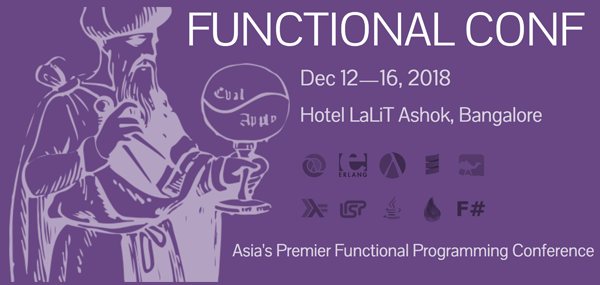
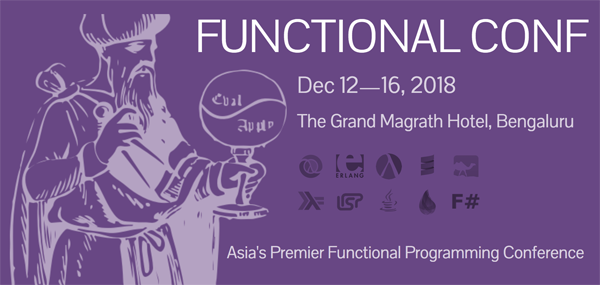
changed venue fixed profile images

diff --git a/index.html b/index.html
@@ -60,7 +60,7 @@ page-index
             <div class="subtitle">Asia's Premier Functional Programming Conference</div>
             <a class="schedule" href="schedule.html">Dec 12&mdash;16, 2018</a>
             <a class="venue" href="venue.html">
-                Hotel LaliT Ashok<br/>
+                The Grand Magrath Hotel<br/>
                 Bengaluru
             </a>
             <a class="button button--register" href="https://confengine.com/functional-conf-2018/register/selection" target="_blank">Register</a>
@@ -157,7 +157,7 @@ page-index
             <ul class="small-block-grid-2 large-block-grid-4 speaker-list">
                 <li>
                     <a href="https://confengine.com/user/alos-cochard" target="_blank">
-                        <img src="https://media.licdn.com/mpr/mpr/shrinknp_400_400/AAEAAQAAAAAAAAkTAAAAJDQ1YWYzNDA2LTQwZmItNDdlYS05NDEyLTYwMGE4OGIwZmYwOQ.jpg" alt="Aloïs Cochard" title="Aloïs Cochard"/>
+                        <img src="https://res.cloudinary.com/dnnqsdghx/image/upload/w_201,h_201,f_auto,q_auto:best,c_thumb,g_face,z_0.8/v1493084432/ProfilePics/t1wvixwcrsqqjmbg65am.jpg" alt="Aloïs Cochard" title="Aloïs Cochard"/>
                         <h3 class="name">Aloïs Cochard</h3>
                     </a>
                 </li>
@@ -193,7 +193,7 @@ page-index
                 </li>
                 <li>
                     <a href="https://www.linkedin.com/in/lauracastro/" target="_blank">
-                        <img src="https://media.licdn.com/dms/image/C4E03AQF5inG09JeNIg/profile-displayphoto-shrink_800_800/0?e=1529665200&v=beta&t=lyxUB-BE7cJxDehscmP9o0tyzhve-4MYJjDSDI_oRRI" alt="Laura M. Castro" title="Laura M. Castro"/>
+                        <img src="https://media.licdn.com/dms/image/C4E03AQF5inG09JeNIg/profile-displayphoto-shrink_800_800/0?e=1540425600&v=beta&t=grTSHDtUoFVDyLf6uIaoMHRClxQz-R_0loYfbec3Y64" alt="Laura M. Castro" title="Laura M. Castro"/>
                         <h3 class="name">Laura M. Castro</h3>
                     </a>
                 </li>
@@ -205,7 +205,7 @@ page-index
                 </li>
                 <li>
                     <a href="https://www.linkedin.com/in/miriampena/" target="_blank">
-                        <img src="https://media.licdn.com/dms/image/C4E03AQG0Jx0aRWSHrA/profile-displayphoto-shrink_800_800/0?e=1529665200&v=beta&t=ybDAs4LMCLY3Dt6sNpuu_NFwAvIhQuRd4AA--Rmzk9k" alt="Miriam Pena" title="Miriam Pena"/>
+                        <img src="https://media.licdn.com/dms/image/C4E03AQG0Jx0aRWSHrA/profile-displayphoto-shrink_800_800/0?e=1540425600&v=beta&t=aoXIzXiPqYOs65Zm--PZiy0Z6ZV3CEqam5QTKTJlNMY" alt="Miriam Pena" title="Miriam Pena"/>
                         <h3 class="name">Miriam Pena</h3>
                     </a>
                 </li>
@@ -337,13 +337,13 @@ page-index
                 </li>
                 <li>
                     <a href="https://www.linkedin.com/in/lauracastro/" target="_blank">
-                        <img src="https://media.licdn.com/dms/image/C4E03AQF5inG09JeNIg/profile-displayphoto-shrink_800_800/0?e=1529665200&v=beta&t=lyxUB-BE7cJxDehscmP9o0tyzhve-4MYJjDSDI_oRRI" alt="Laura M. Castro" title="Laura M. Castro"/>
+                        <img src="https://media.licdn.com/dms/image/C4E03AQF5inG09JeNIg/profile-displayphoto-shrink_800_800/0?e=1540425600&v=beta&t=grTSHDtUoFVDyLf6uIaoMHRClxQz-R_0loYfbec3Y64" alt="Laura M. Castro" title="Laura M. Castro"/>
                         <h3 class="name">Laura M. Castro</h3>
                     </a>
                 </li>
                 <li>
                     <a href="https://www.linkedin.com/in/miriampena/" target="_blank">
-                        <img src="https://media.licdn.com/dms/image/C4E03AQG0Jx0aRWSHrA/profile-displayphoto-shrink_800_800/0?e=1529665200&v=beta&t=ybDAs4LMCLY3Dt6sNpuu_NFwAvIhQuRd4AA--Rmzk9k" alt="Miriam Pena" title="Miriam Pena"/>
+                        <img src="https://media.licdn.com/dms/image/C4E03AQG0Jx0aRWSHrA/profile-displayphoto-shrink_800_800/0?e=1540425600&v=beta&t=aoXIzXiPqYOs65Zm--PZiy0Z6ZV3CEqam5QTKTJlNMY" alt="Miriam Pena" title="Miriam Pena"/>
                         <h3 class="name">Miriam Pena</h3>
                     </a>
                 </li>
@@ -361,7 +361,7 @@ page-index
                 </li>
                 <li>
                     <a href="https://www.linkedin.com/in/rjaju/" target="_blank">
-                        <img src="https://media.licdn.com/dms/image/C4E03AQGwngLsPRtSFQ/profile-displayphoto-shrink_800_800/0?e=1529665200&v=beta&t=7FvBEBod54yRyaONhggEGRa24BM83reT2HbaZXTS4mM" alt="Ravindra Jaju" title="Ravindra Jaju"/>
+                        <img src="https://media.licdn.com/dms/image/C4E03AQGwngLsPRtSFQ/profile-displayphoto-shrink_800_800/0?e=1540425600&v=beta&t=0aH11gli04bi5D7hGf3EUMq38Pz_Fkynn54SX1EBSxM" alt="Ravindra Jaju" title="Ravindra Jaju"/>
                         <h3 class="name">Ravindra Jaju</h3>
                     </a>
                 </li>

diff --git a/templates/index.html b/templates/index.html
@@ -21,7 +21,7 @@ page-index
             <div class="subtitle">Asia's Premier Functional Programming Conference</div>
             <a class="schedule" href="schedule.html">Dec 12&mdash;16, 2018</a>
             <a class="venue" href="venue.html">
-                Hotel LaliT Ashok<br/>
+                The Grand Magrath Hotel<br/>
                 Bengaluru
             </a>
             <a class="button button--register" href="https://confengine.com/functional-conf-2018/register/selection" target="_blank">Register</a>
@@ -117,7 +117,7 @@ page-index
             <ul class="small-block-grid-2 large-block-grid-4 speaker-list">
                 <li>
                     <a href="https://confengine.com/user/alos-cochard" target="_blank">
-                        <img src="https://media.licdn.com/mpr/mpr/shrinknp_400_400/AAEAAQAAAAAAAAkTAAAAJDQ1YWYzNDA2LTQwZmItNDdlYS05NDEyLTYwMGE4OGIwZmYwOQ.jpg" alt="Aloïs Cochard" title="Aloïs Cochard"/>
+                        <img src="https://res.cloudinary.com/dnnqsdghx/image/upload/w_201,h_201,f_auto,q_auto:best,c_thumb,g_face,z_0.8/v1493084432/ProfilePics/t1wvixwcrsqqjmbg65am.jpg" alt="Aloïs Cochard" title="Aloïs Cochard"/>
                         <h3 class="name">Aloïs Cochard</h3>
                     </a>
                 </li>
@@ -153,7 +153,7 @@ page-index
                 </li>
                 <li>
                     <a href="https://www.linkedin.com/in/lauracastro/" target="_blank">
-                        <img src="https://media.licdn.com/dms/image/C4E03AQF5inG09JeNIg/profile-displayphoto-shrink_800_800/0?e=1529665200&v=beta&t=lyxUB-BE7cJxDehscmP9o0tyzhve-4MYJjDSDI_oRRI" alt="Laura M. Castro" title="Laura M. Castro"/>
+                        <img src="https://media.licdn.com/dms/image/C4E03AQF5inG09JeNIg/profile-displayphoto-shrink_800_800/0?e=1540425600&v=beta&t=grTSHDtUoFVDyLf6uIaoMHRClxQz-R_0loYfbec3Y64" alt="Laura M. Castro" title="Laura M. Castro"/>
                         <h3 class="name">Laura M. Castro</h3>
                     </a>
                 </li>
@@ -165,7 +165,7 @@ page-index
                 </li>
                 <li>
                     <a href="https://www.linkedin.com/in/miriampena/" target="_blank">
-                        <img src="https://media.licdn.com/dms/image/C4E03AQG0Jx0aRWSHrA/profile-displayphoto-shrink_800_800/0?e=1529665200&v=beta&t=ybDAs4LMCLY3Dt6sNpuu_NFwAvIhQuRd4AA--Rmzk9k" alt="Miriam Pena" title="Miriam Pena"/>
+                        <img src="https://media.licdn.com/dms/image/C4E03AQG0Jx0aRWSHrA/profile-displayphoto-shrink_800_800/0?e=1540425600&v=beta&t=aoXIzXiPqYOs65Zm--PZiy0Z6ZV3CEqam5QTKTJlNMY" alt="Miriam Pena" title="Miriam Pena"/>
                         <h3 class="name">Miriam Pena</h3>
                     </a>
                 </li>
@@ -297,13 +297,13 @@ page-index
                 </li>
                 <li>
                     <a href="https://www.linkedin.com/in/lauracastro/" target="_blank">
-                        <img src="https://media.licdn.com/dms/image/C4E03AQF5inG09JeNIg/profile-displayphoto-shrink_800_800/0?e=1529665200&v=beta&t=lyxUB-BE7cJxDehscmP9o0tyzhve-4MYJjDSDI_oRRI" alt="Laura M. Castro" title="Laura M. Castro"/>
+                        <img src="https://media.licdn.com/dms/image/C4E03AQF5inG09JeNIg/profile-displayphoto-shrink_800_800/0?e=1540425600&v=beta&t=grTSHDtUoFVDyLf6uIaoMHRClxQz-R_0loYfbec3Y64" alt="Laura M. Castro" title="Laura M. Castro"/>
                         <h3 class="name">Laura M. Castro</h3>
                     </a>
                 </li>
                 <li>
                     <a href="https://www.linkedin.com/in/miriampena/" target="_blank">
-                        <img src="https://media.licdn.com/dms/image/C4E03AQG0Jx0aRWSHrA/profile-displayphoto-shrink_800_800/0?e=1529665200&v=beta&t=ybDAs4LMCLY3Dt6sNpuu_NFwAvIhQuRd4AA--Rmzk9k" alt="Miriam Pena" title="Miriam Pena"/>
+                        <img src="https://media.licdn.com/dms/image/C4E03AQG0Jx0aRWSHrA/profile-displayphoto-shrink_800_800/0?e=1540425600&v=beta&t=aoXIzXiPqYOs65Zm--PZiy0Z6ZV3CEqam5QTKTJlNMY" alt="Miriam Pena" title="Miriam Pena"/>
                         <h3 class="name">Miriam Pena</h3>
                     </a>
                 </li>
@@ -321,7 +321,7 @@ page-index
                 </li>
                 <li>
                     <a href="https://www.linkedin.com/in/rjaju/" target="_blank">
-                        <img src="https://media.licdn.com/dms/image/C4E03AQGwngLsPRtSFQ/profile-displayphoto-shrink_800_800/0?e=1529665200&v=beta&t=7FvBEBod54yRyaONhggEGRa24BM83reT2HbaZXTS4mM" alt="Ravindra Jaju" title="Ravindra Jaju"/>
+                        <img src="https://media.licdn.com/dms/image/C4E03AQGwngLsPRtSFQ/profile-displayphoto-shrink_800_800/0?e=1540425600&v=beta&t=0aH11gli04bi5D7hGf3EUMq38Pz_Fkynn54SX1EBSxM" alt="Ravindra Jaju" title="Ravindra Jaju"/>
                         <h3 class="name">Ravindra Jaju</h3>
                     </a>
                 </li>

diff --git a/venue.html b/venue.html
@@ -1,7 +1,7 @@
-<script type="text/javascript" src="https://maps.google.com/maps/api/js?sensor=false"></script>
+<script type="text/javascript" src="https://maps.google.com/maps/api/js?key=AIzaSyC6ZDHqWxJFDXFVKqC1lnOn1MEK1s0YxEA"></script>
 <script type="text/javascript">
   function LoadGmaps() {
-    var myLatlng = new google.maps.LatLng(12.9919749,77.581773,15);
+    var myLatlng = new google.maps.LatLng(12.970594,77.608145,15);
     var myOptions = {
       zoom: 16,
       center: myLatlng,
@@ -19,10 +19,10 @@
     var marker = new google.maps.Marker({
       position: myLatlng,
       map: map,
-      title:"The Lalit Ashok Bangalore, Kumara Krupa High Grounds, Bengaluru 560001 India – +91-80-3052-7777"
+      title:"The Grand Magrath Hotel #30 Magrath Road Bangalore - 560025, India – +91-80-2555-1555"
     });
     var infowindow = new google.maps.InfoWindow({
-      content: "The Lalit Ashok Bangalore, <br />Kumara Krupa High Grounds <br />Bengaluru - 560001"
+      content: "The Grand Magrath Hotel <br/>#30 Magrath Road <br/>Bangalore - 560025, India <br/>+91-80-2555-1555"
     });
     google.maps.event.addListener(map, "tilesloaded", function() {
       infowindow.open(map, marker);
@@ -108,10 +108,10 @@ onload="javascript: LoadGmaps();"
             <div>
                 <h2>Official Host for Functional Conf 2018</h2>
 
-                <p>Exuding an old world charm yet contemporary vibe, Bangalore is ever-welcoming and cosmopolitan in the true sense. A city that offers all that is modern yet is a bastion of tradition; Bangalore’s all-round-the-year pleasant climate and hospitable warmth make it one of the most popular cities to visit.</p>
-                <p><a target="_blank" href="https://www.thelalit.com/the-lalit-bangalore/">Hotel Lalit Ashok</a>, a Luxury 5 Star Hotel, puts you within reach of some of the best restaurants and attractions Bangalore has to offer.</p>
+                <p>Exuding an old world charm yet contemporary vibe, Bangalore is ever-welcoming and cosmopolitan in the true sense. A city that offers all that is modern yet is a bastion of tradition; Bangalore's all-round-the-year pleasant climate and hospitable warmth make it one of the most popular cities to visit.</p>
+                <p><a target="_blank" href="http://thegrandmagrath.com/">The Grand Magrath Hotel</a>, built to match the colonial style that Bangalore is famous for. Located in the heart of the city, The Grand Magrath is at an easy walking distance from Brigade and MG Road, UB City and a number of malls, shopping areas and restaurants.</p>
 
-                <p><strong>The Lalit Ashok Bangalore</strong> <br>Kumara Krupa High Grounds, Bengaluru - 560 001, India <br>Tel : +91-80-3052-7777 <br><a href="https://www.thelalit.com/the-lalit-bangalore/" target="_blank">www.thelalit.com</a></p>
+                <p><strong>The Grand Magrath Hotel</strong> <br>#30 Magrath Road Bangalore - 560025, India <br>Tel : +91-80-2555-1555 <br><a href="http://thegrandmagrath.com/" target="_blank">thegrandmagrath.com</a></p>
 
                 <a href="https://goo.gl/maps/UXWppfPdRit" target="_blank" id="venue-map" class="venue-map"></a>
             </div>
@@ -124,12 +124,12 @@ onload="javascript: LoadGmaps();"
 
                 <p>While filling your visa application online, please fill only mandatory fields. Skip optional fields. Also use the following person's details as the contact person:</p>
 
-                <p><strong>Mr. Adhiyamaan Ori</strong>,
-                    <br><em>Assistant Sales Manager</em>,
-                    <br><strong>The Lalit Ashok Bangalore</strong>
-                    <br>Kumara Krupa High Grounds, Bengaluru - 560 001, India
-                    <br><strong>Email</strong>: <a href="mailto:aori@thelalit.com">aori@thelalit.com</a>
-                    <br><strong>Mobile</strong>: +91 99000 38935
+                <p><strong>Mr. Paul Norman</strong>,
+                    <br><em>Sales Manager</em>,
+                    <br><strong>The Grand Magrath Hotel</strong>
+                    <br>#30 Magrath Road Bangalore - 560025, India
+                    <br><strong>Email</strong>: <a href="mailto:info@thegrandmagrath.com ">info@thegrandmagrath.com</a>
+                    <br><strong>Tel</strong>: +91-080-40215555
                 </p>
 
                 <p><b>Citizens from other countries</b> are required to apply for a tourist or business visa at their nearest Indian Embassy. Please request us for an invitation letter. Start your visa process at least 2 months before your departure to India.</p>

diff --git a/templates/venue.html b/templates/venue.html
@@ -19,10 +19,10 @@ onload="javascript: LoadGmaps();"
             <div>
                 <h2>Official Host for Functional Conf 2018</h2>
 
-                <p>Exuding an old world charm yet contemporary vibe, Bangalore is ever-welcoming and cosmopolitan in the true sense. A city that offers all that is modern yet is a bastion of tradition; Bangalore’s all-round-the-year pleasant climate and hospitable warmth make it one of the most popular cities to visit.</p>
-                <p><a target="_blank" href="https://www.thelalit.com/the-lalit-bangalore/">Hotel Lalit Ashok</a>, a Luxury 5 Star Hotel, puts you within reach of some of the best restaurants and attractions Bangalore has to offer.</p>
+                <p>Exuding an old world charm yet contemporary vibe, Bangalore is ever-welcoming and cosmopolitan in the true sense. A city that offers all that is modern yet is a bastion of tradition; Bangalore's all-round-the-year pleasant climate and hospitable warmth make it one of the most popular cities to visit.</p>
+                <p><a target="_blank" href="http://thegrandmagrath.com/">The Grand Magrath Hotel</a>, built to match the colonial style that Bangalore is famous for. Located in the heart of the city, The Grand Magrath is at an easy walking distance from Brigade and MG Road, UB City and a number of malls, shopping areas and restaurants.</p>
 
-                <p><strong>The Lalit Ashok Bangalore</strong> <br>Kumara Krupa High Grounds, Bengaluru - 560 001, India <br>Tel : +91-80-3052-7777 <br><a href="https://www.thelalit.com/the-lalit-bangalore/" target="_blank">www.thelalit.com</a></p>
+                <p><strong>The Grand Magrath Hotel</strong> <br>#30 Magrath Road Bangalore - 560025, India <br>Tel : +91-80-2555-1555 <br><a href="http://thegrandmagrath.com/" target="_blank">thegrandmagrath.com</a></p>
 
                 <a href="https://goo.gl/maps/UXWppfPdRit" target="_blank" id="venue-map" class="venue-map"></a>
             </div>
@@ -35,12 +35,12 @@ onload="javascript: LoadGmaps();"
 
                 <p>While filling your visa application online, please fill only mandatory fields. Skip optional fields. Also use the following person's details as the contact person:</p>
 
-                <p><strong>Mr. Adhiyamaan Ori</strong>,
-                    <br><em>Assistant Sales Manager</em>,
-                    <br><strong>The Lalit Ashok Bangalore</strong>
-                    <br>Kumara Krupa High Grounds, Bengaluru - 560 001, India
-                    <br><strong>Email</strong>: <a href="mailto:aori@thelalit.com">aori@thelalit.com</a>
-                    <br><strong>Mobile</strong>: +91 99000 38935
+                <p><strong>Mr. Paul Norman</strong>,
+                    <br><em>Sales Manager</em>,
+                    <br><strong>The Grand Magrath Hotel</strong>
+                    <br>#30 Magrath Road Bangalore - 560025, India
+                    <br><strong>Email</strong>: <a href="mailto:info@thegrandmagrath.com ">info@thegrandmagrath.com</a>
+                    <br><strong>Tel</strong>: +91-080-40215555
                 </p>
 
                 <p><b>Citizens from other countries</b> are required to apply for a tourist or business visa at their nearest Indian Embassy. Please request us for an invitation letter. Start your visa process at least 2 months before your departure to India.</p>

diff --git a/templates/_map.html b/templates/_map.html
@@ -1,7 +1,7 @@
-<script type="text/javascript" src="https://maps.google.com/maps/api/js?sensor=false"></script>
+<script type="text/javascript" src="https://maps.google.com/maps/api/js?key=AIzaSyC6ZDHqWxJFDXFVKqC1lnOn1MEK1s0YxEA"></script>
 <script type="text/javascript">
   function LoadGmaps() {
-    var myLatlng = new google.maps.LatLng(12.9919749,77.581773,15);
+    var myLatlng = new google.maps.LatLng(12.970594,77.608145,15);
     var myOptions = {
       zoom: 16,
       center: myLatlng,
@@ -19,10 +19,10 @@
     var marker = new google.maps.Marker({
       position: myLatlng,
       map: map,
-      title:"The Lalit Ashok Bangalore, Kumara Krupa High Grounds, Bengaluru 560001 India – +91-80-3052-7777"
+      title:"The Grand Magrath Hotel #30 Magrath Road Bangalore - 560025, India – +91-80-2555-1555"
     });
     var infowindow = new google.maps.InfoWindow({
-      content: "The Lalit Ashok Bangalore, <br />Kumara Krupa High Grounds <br />Bengaluru - 560001"
+      content: "The Grand Magrath Hotel <br/>#30 Magrath Road <br/>Bangalore - 560025, India <br/>+91-80-2555-1555"
     });
     google.maps.event.addListener(map, "tilesloaded", function() {
       infowindow.open(map, marker);

diff --git a/speaker.html b/speaker.html
@@ -94,7 +94,7 @@ page page-schedule
                       </li>
                       <li><b>Post-Conference Paid Workshops</b> - Full Day hands-on workshops by our international speakers to allow you to go deep into a specific topic. Each workshop is capped at around 20 participants.</li>
                   </ul>
-                  <p>To present at Functional Conf 2018, please submit your proposal before June 30th 2018 via our <a href="https://confengine.com/functional-conf-2018/proposals" target="_blank">Public Proposal Submission System</a>.</p>
+                  <p>To present at Functional Conf 2018, please submit your proposal before Sep 15th 2018 via our <a href="https://confengine.com/functional-conf-2018/proposals" target="_blank">Public Proposal Submission System</a>.</p>
               </div>
 
               <div>

diff --git a/templates/speaker.html b/templates/speaker.html
@@ -33,7 +33,7 @@ page page-schedule
                       </li>
                       <li><b>Post-Conference Paid Workshops</b> - Full Day hands-on workshops by our international speakers to allow you to go deep into a specific topic. Each workshop is capped at around 20 participants.</li>
                   </ul>
-                  <p>To present at Functional Conf 2018, please submit your proposal before June 30th 2018 via our <a href="https://confengine.com/functional-conf-2018/proposals" target="_blank">Public Proposal Submission System</a>.</p>
+                  <p>To present at Functional Conf 2018, please submit your proposal before Sep 15th 2018 via our <a href="https://confengine.com/functional-conf-2018/proposals" target="_blank">Public Proposal Submission System</a>.</p>
               </div>
 
               <div>
